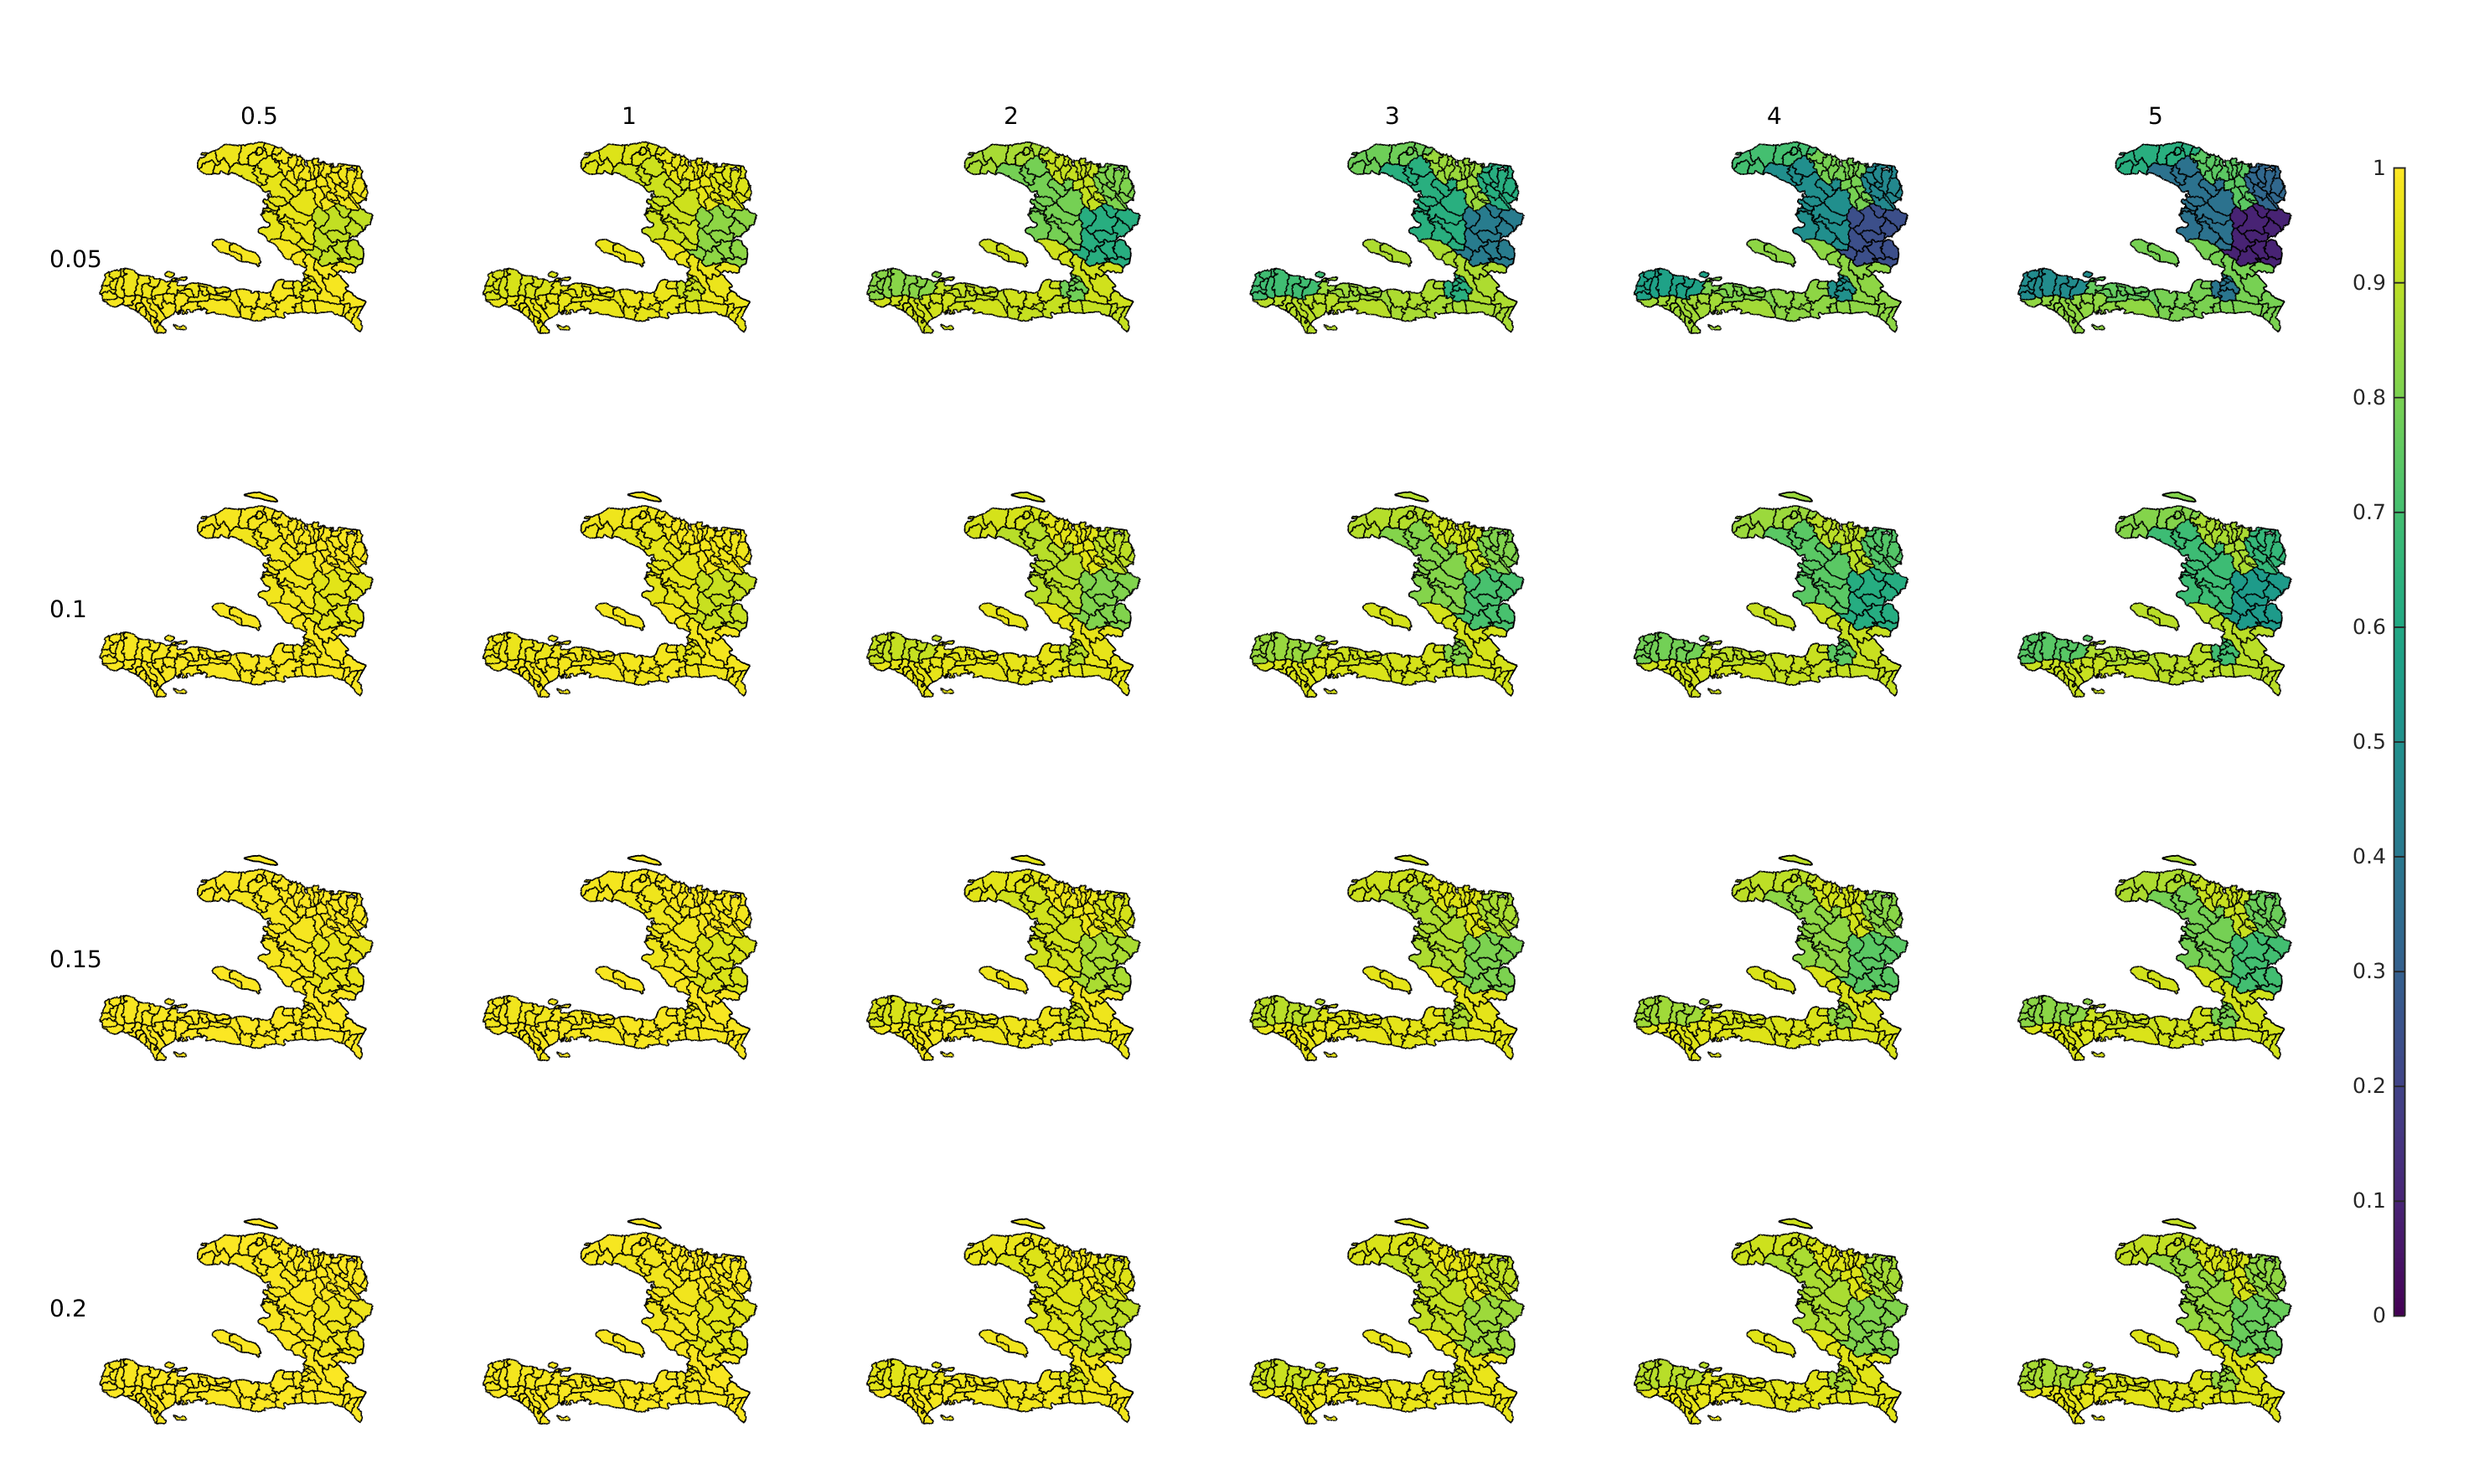
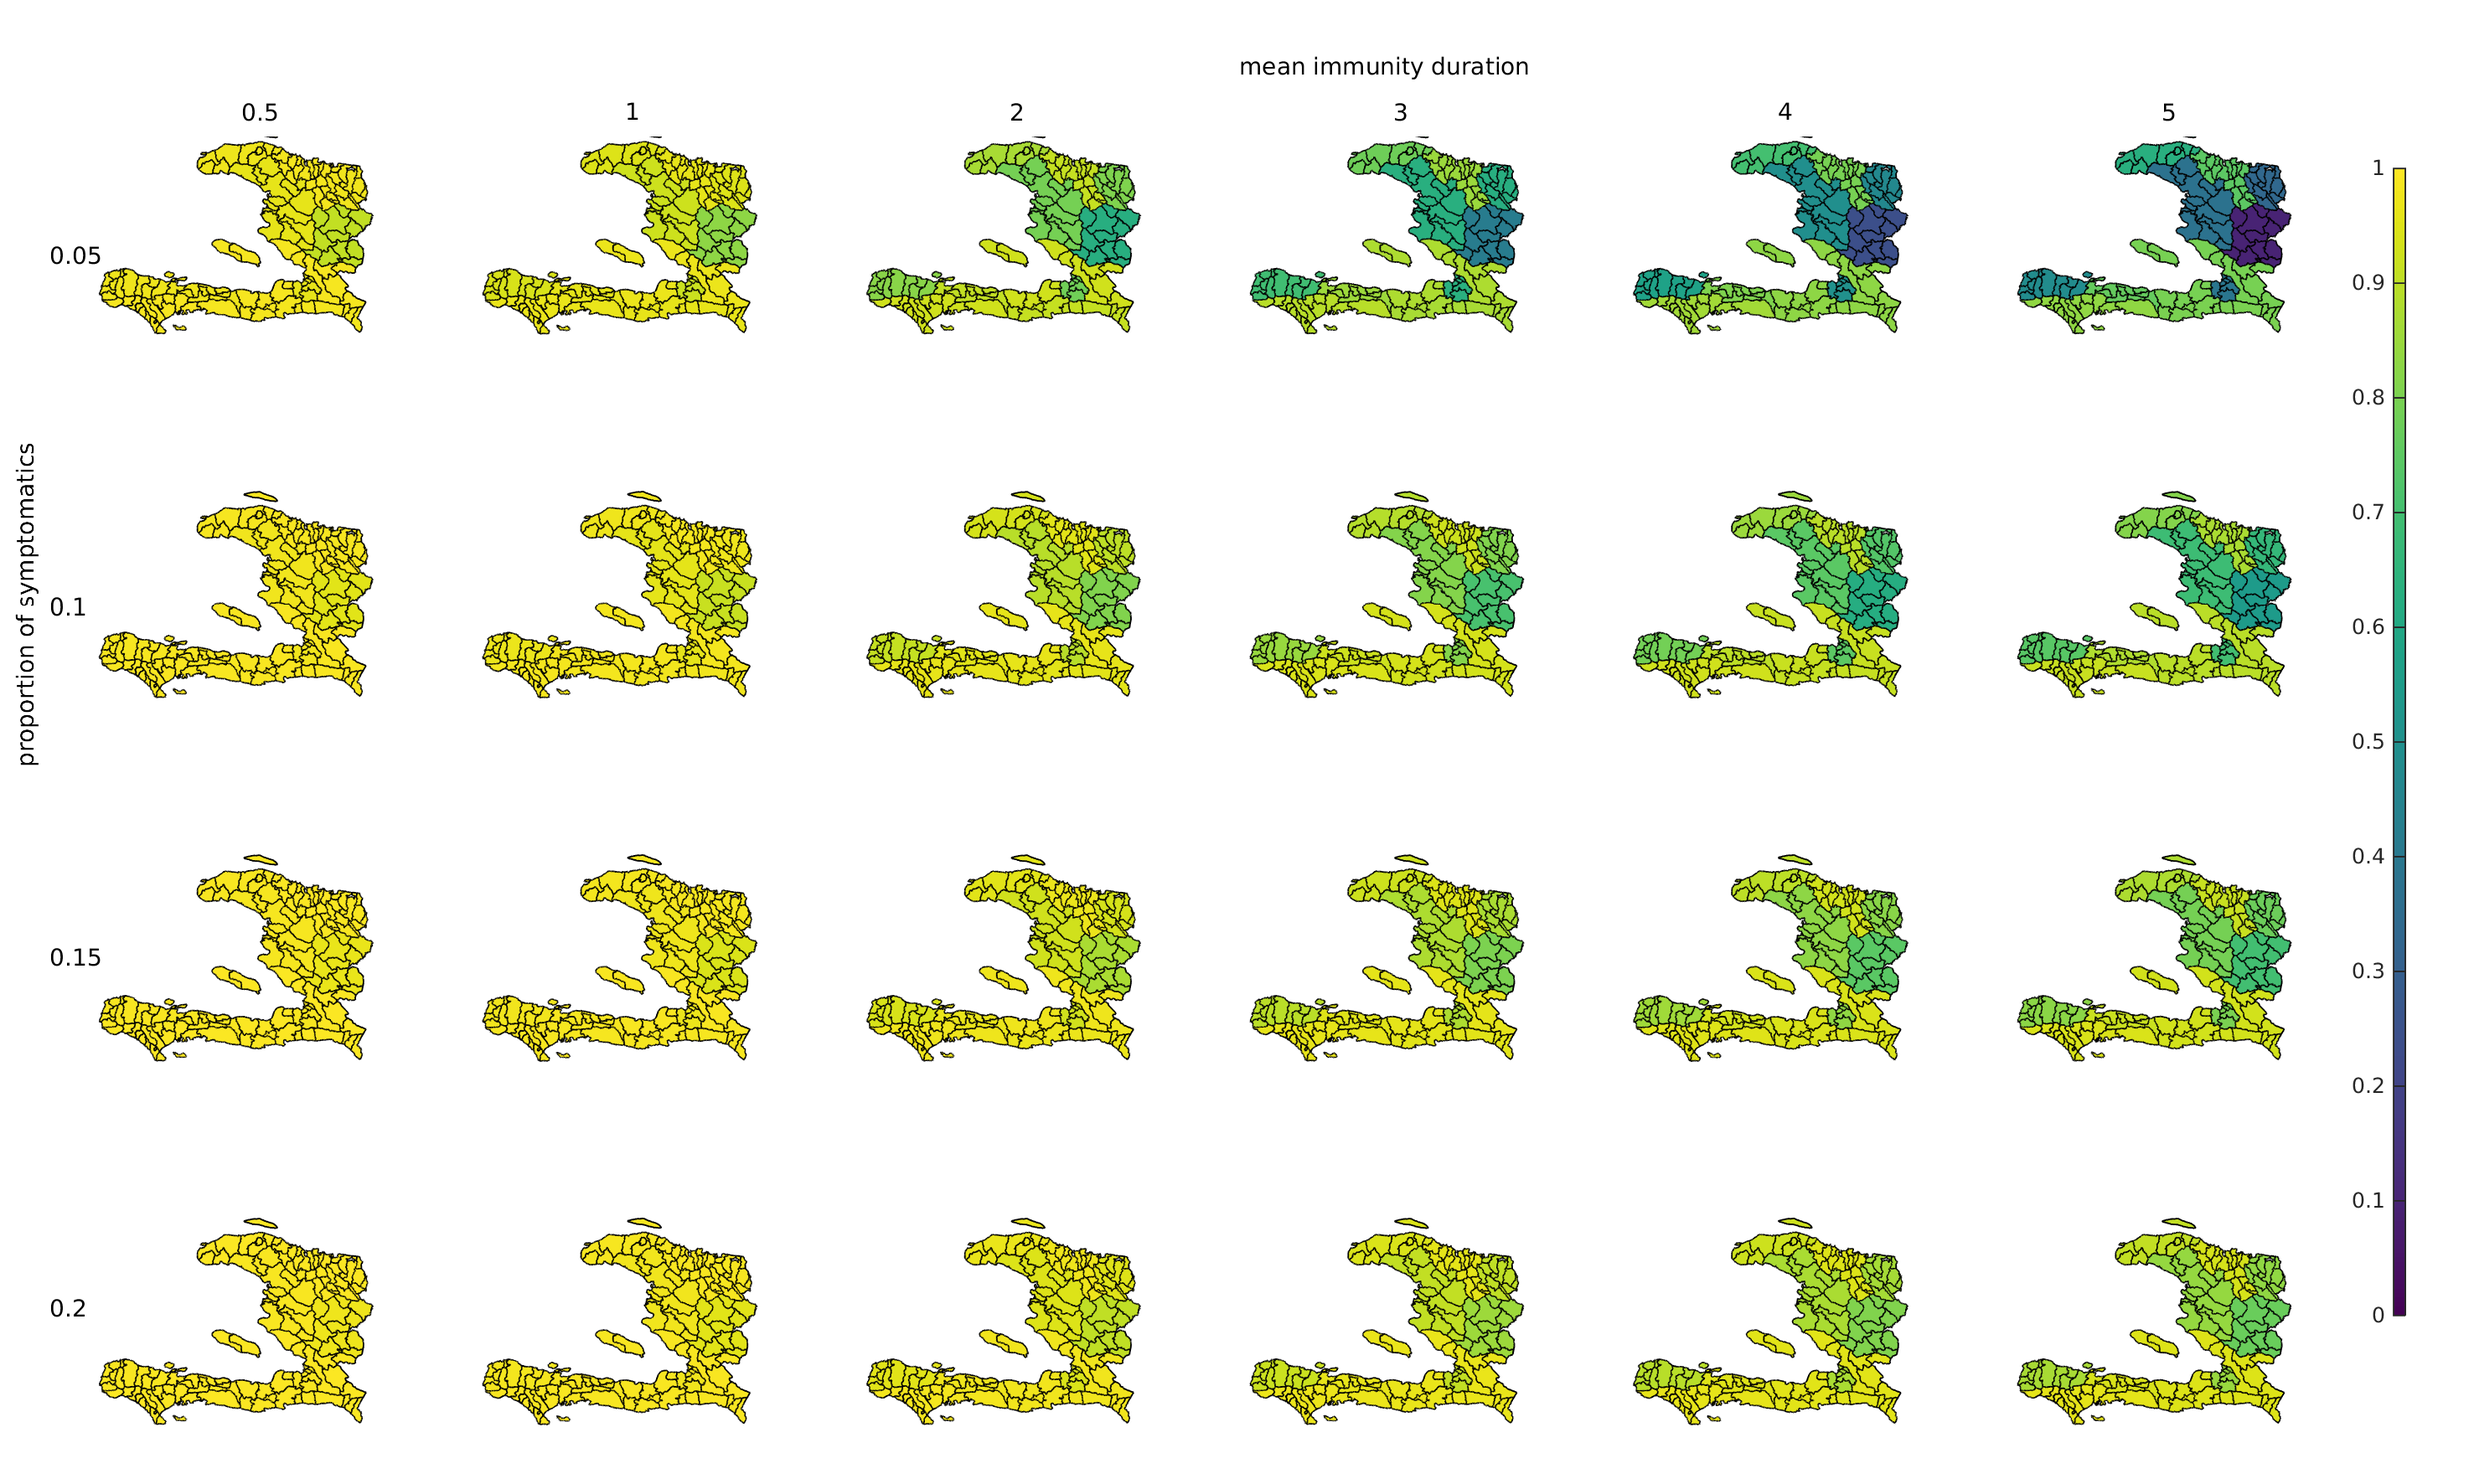
figure annotation

diff --git a/run.m b/run.m
@@ -75,11 +75,14 @@ for i=1:length(rho)
     end
 end
 
-ax=subplot('position',[0.95,0.1,0.03,0.8]);
-axis off
+ax=subplot('position',[0.95,0.1,0.03,0.8],'visible','off');
 caxis(cscale)
 colormap(viridis)
 colorbar(ax,'location','east')
+
+ax=axes('position',[0,0,1,1],'visible','off');
+text(0.01,0.5,'proportion of symptomatics','Units','normalized','Rotation',90)
+text(0.5,0.99,'mean immunity duration','Units','normalized')
 
 %% save
 
